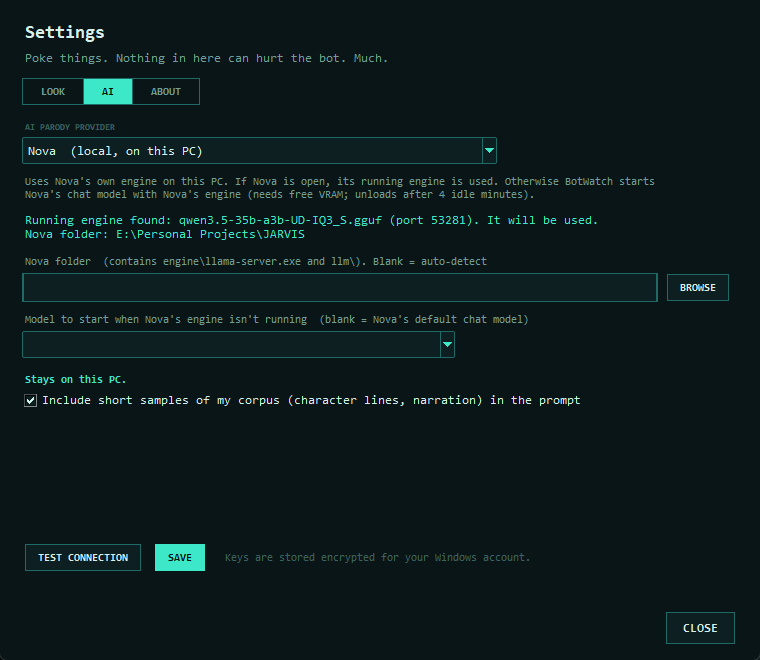
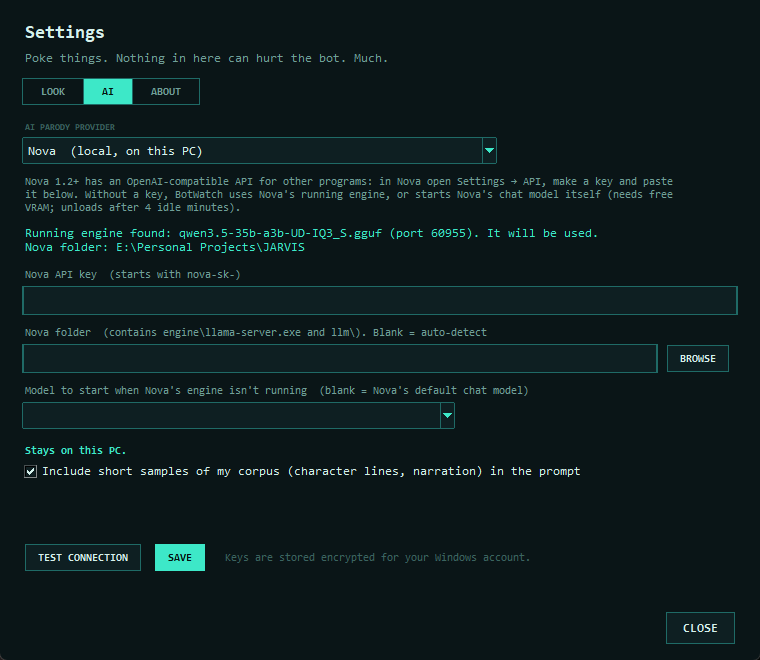
README and screenshot for BotWatch 1.2.0 (Nova 1.2 API support)

diff --git a/README.md b/README.md
@@ -34,7 +34,7 @@ Controls are on the left, the output is on the right.
 - **Story / Chapter / Screenplay / Dialogue**: Markov-chain writing, fully offline. It cleans the text, learns who says each line, and filters out repeats, fragments, run-ons and long copies of the source.
 - **⌨ Co-write**: *you* write; the bot suggests the 24 most likely next words (click, or Tab / Alt+1…9). Pick a Voice to write like one character, or press Auto-write to let it finish your sentence.
 - **🤖 AI Parody** *(optional)*: a language model writes a deadpan, absurd chapter using your text's cast and voice. Choose your provider in **⚙ Settings → AI**:
-  - **Local (stays on your PC):** **Nova** (uses Nova's running engine, or starts Nova's chat model), **Ollama**, or any OpenAI-compatible local server such as LM Studio or llama.cpp.
+  - **Local (stays on your PC):** **[Nova](https://wolklaw.dev/projects/nova/)** (use Nova 1.2's built-in API with a key from Nova's Settings → API; without a key it falls back to Nova's running engine, or starts Nova's chat model), **Ollama**, or any OpenAI-compatible local server such as LM Studio or llama.cpp.
   - **Cloud (needs your own API key):** **Anthropic (Claude)**, **OpenAI**, **Google Gemini**, **OpenRouter**, **Groq**, **Mistral**, **xAI (Grok)**, **DeepSeek**, **Together AI**, or any custom OpenAI-compatible endpoint. With a cloud provider, your premise and (if you leave it ticked) short samples of your text are sent to that provider. Keys are stored encrypted for your Windows account.
 
 ![AI settings](screenshots/05-ai-settings.png)
